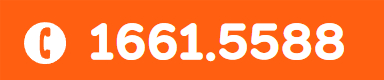
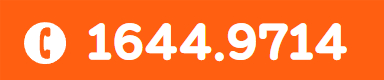
250203 aslidfjalsdfogogogogo

Changed region(s): [[0.2188, 0.275, 0.9062, 0.775]]

diff --git a/front/src/routes/(app)/+layout.svelte b/front/src/routes/(app)/+layout.svelte
@@ -336,17 +336,31 @@
 
 <div class="fixed bottom-0 left-0 w-full z-[999] block md:hidden">
 	<div class="flex">
-		<a href="TEL:{siteData.ld_phone_num}" on:click={addCallCount}>
-			{#if siteData.ld_mobile_bt_phone_img}
-				<div>
-					<img src={siteData.ld_mobile_bt_phone_img} alt="" />
-				</div>
-			{:else}
-				<div>
-					<img src="/bottom-fix/left-phone.jpg" alt="" />
-				</div>
-			{/if}
-		</a>
+		{#if siteData.ld_phone_num}
+			<a href="TEL:{siteData.ld_phone_num}" on:click={addCallCount}>
+				{#if siteData.ld_mobile_bt_phone_img}
+					<div>
+						<img src={siteData.ld_mobile_bt_phone_img} alt="" />
+					</div>
+				{:else}
+					<div>
+						<img src="/bottom-fix/left-phone.jpg" alt="" />
+					</div>
+				{/if}
+			</a>
+		{:else}
+			<a href="TEL:1644-9714" on:click={addCallCount}>
+				{#if siteData.ld_mobile_bt_phone_img}
+					<div>
+						<img src={siteData.ld_mobile_bt_phone_img} alt="" />
+					</div>
+				{:else}
+					<div>
+						<img src="/bottom-fix/left-phone.jpg" alt="" />
+					</div>
+				{/if}
+			</a>
+		{/if}
 
 		<!-- svelte-ignore a11y-click-events-have-key-events -->
 		<!-- svelte-ignore a11y-no-static-element-interactions -->
@@ -422,7 +436,7 @@
 				</a>
 			{:else}
 				<a
-					href="SMS:{siteData.ld_sms_num}?body={siteData.ld_name} 문의드립니다. 분양가 / 모델하우스위치가 어떻게 되나요?"
+					href="SMS:{siteData.ld_sms_num}?body={siteData.ld_name} 이벤트 참여!"
 					on:click={addSmsCount}
 				>
 					<img src={siteData.ld_event_img} alt="" />

diff --git a/front/src/routes/setting/+page.svelte b/front/src/routes/setting/+page.svelte
@@ -50,6 +50,8 @@
         if (data.modifyVal) {
             ld_id = modifyVal.ld_id;
             allData = data.modifyVal;
+            console.log(allData);
+
             if (!allData["ld_db_location"]) {
                 allData["ld_db_location"] = "";
             }
@@ -71,8 +73,7 @@
             }
 
             if (!modifyVal.ld_sms_content) {
-                allData["ld_sms_content"] =
-                    "문의드립니다. 분양가 / 모델하우스위치가 어떻게 되나요?";
+                allData["ld_sms_content"] = `${allData["ld_name"]} 이벤트 참여`;
             }
         }
     }
@@ -94,6 +95,7 @@
         }
 
         const deleteImagePath = `subuploads/img/${imgUrlArr[4]}/${imgUrlArr[5]}`;
+        console.log(deleteImagePath);
 
         try {
             const res = await axios.post(`${back_api}/delete_single_image`, {
